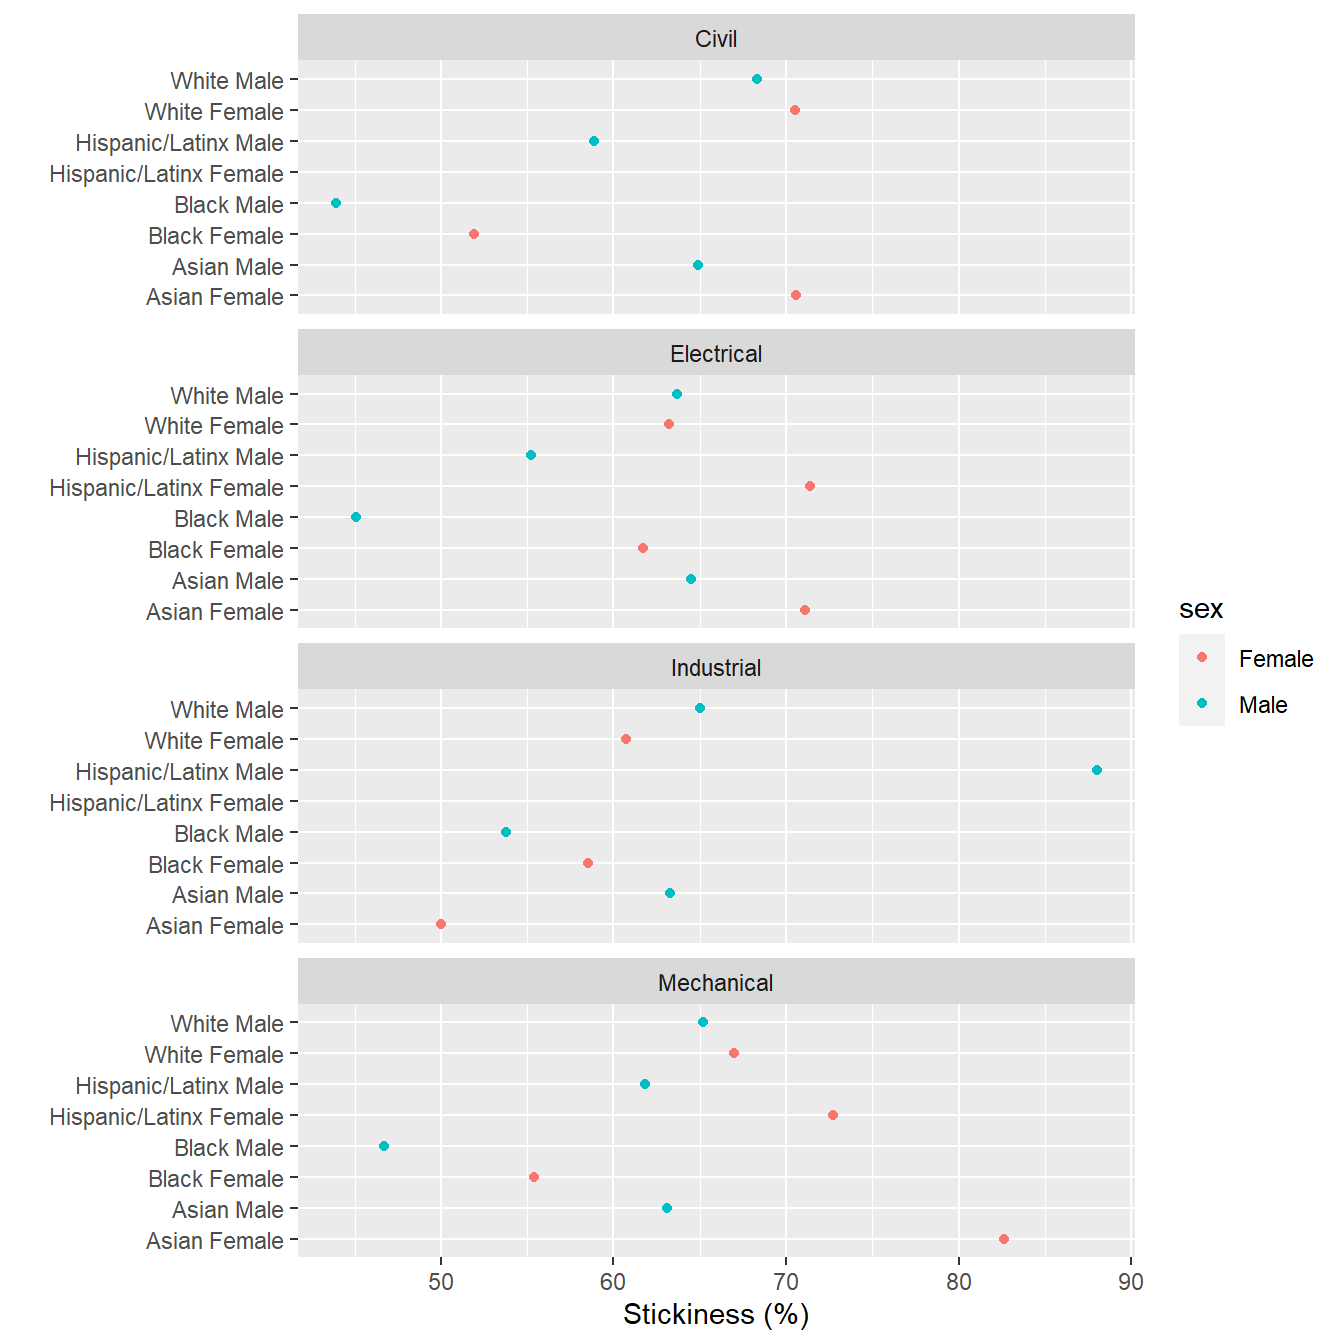
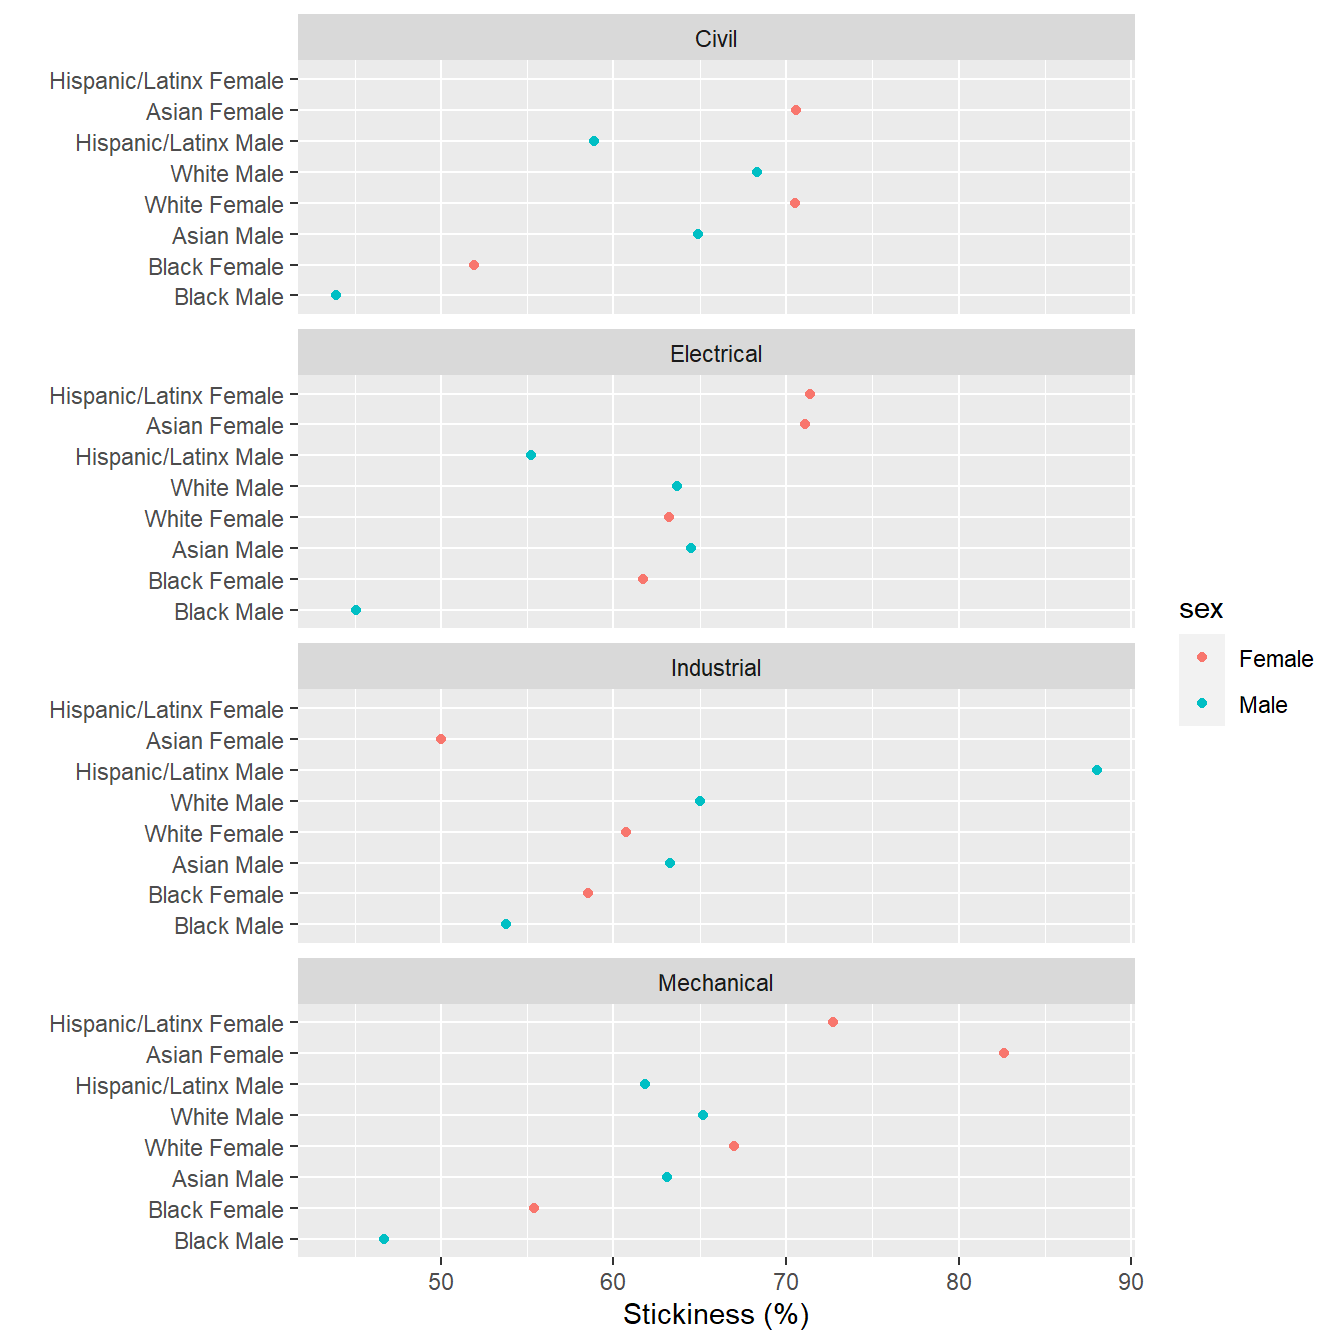
docs: stickiness.rds

diff --git a/docs/graph-basics.html b/docs/graph-basics.html
@@ -256,7 +256,6 @@ div.csl-indent {
 <ul>
 <li class="chapter" data-level="6.9.1" data-path="graph-basics.html"><a href="graph-basics.html#exercise-6"><i class="fa fa-check"></i><b>6.9.1</b> Exercise</a></li>
 </ul></li>
-<li class="chapter" data-level="6.10" data-path="graph-basics.html"><a href="graph-basics.html#downloading-files-manually"><i class="fa fa-check"></i><b>6.10</b> Downloading files manually</a></li>
 </ul></li>
 <li class="chapter" data-level="7" data-path="data-basics.html"><a href="data-basics.html"><i class="fa fa-check"></i><b>7</b> Data basics</a>
 <ul>
@@ -327,7 +326,9 @@ div.csl-indent {
 <div class="sourceCode" id="cb2"><pre class="sourceCode r"><code class="sourceCode r"><span id="cb2-1"><a href="graph-basics.html#cb2-1" aria-hidden="true" tabindex="-1"></a>        data\</span>
 <span id="cb2-2"><a href="graph-basics.html#cb2-2" aria-hidden="true" tabindex="-1"></a>            hours_per_term.rds</span>
 <span id="cb2-3"><a href="graph-basics.html#cb2-3" aria-hidden="true" tabindex="-1"></a>            sat.rds</span>
-<span id="cb2-4"><a href="graph-basics.html#cb2-4" aria-hidden="true" tabindex="-1"></a>            student_demogr.rds</span></code></pre></div>
+<span id="cb2-4"><a href="graph-basics.html#cb2-4" aria-hidden="true" tabindex="-1"></a>            stickiness.rds</span>
+<span id="cb2-5"><a href="graph-basics.html#cb2-5" aria-hidden="true" tabindex="-1"></a>            student_demogr.rds</span></code></pre></div>
+<p>These data files are used in the exercises. We use RDS format because it preserves the order (if any) of factors.</p>
 </div>
 <div id="start-a-new-script" class="section level3" number="6.1.2">
 <h3><span class="header-section-number">6.1.2</span> Start a new script</h3>
@@ -583,9 +584,9 @@ div.csl-indent {
 <div id="exercise-4" class="section level3" number="6.7.1">
 <h3><span class="header-section-number">6.7.1</span> Exercise</h3>
 <p>The prepared data you downloaded earlier includes the file <code>hours_per_term.rds</code>. Again, we read the data using <code>readRDS()</code>.</p>
-<div class="sourceCode" id="cb27"><pre class="sourceCode r"><code class="sourceCode r"><span id="cb27-1"><a href="graph-basics.html#cb27-1" aria-hidden="true" tabindex="-1"></a>hours_per_term<span class="ot">&lt;-</span> <span class="fu">readRDS</span>(<span class="st">&quot;data/hours_per_term.rds&quot;</span>)</span></code></pre></div>
+<div class="sourceCode" id="cb27"><pre class="sourceCode r"><code class="sourceCode r"><span id="cb27-1"><a href="graph-basics.html#cb27-1" aria-hidden="true" tabindex="-1"></a>hours_per_term <span class="ot">&lt;-</span> <span class="fu">readRDS</span>(<span class="st">&quot;data/hours_per_term.rds&quot;</span>)</span></code></pre></div>
 <ul>
-<li>Use <code>hours_per_termd</code> data to create a boxplot of hours per term as a function of level.</li>
+<li>Use <code>hours_per_term</code> data to create a boxplot of hours per term as a function of level.</li>
 <li>Add a third column name to <code>aes()</code> to add <code>sex</code> by color to the graph.</li>
 <li>Add the <code>coord_flip()</code> layer to your graph to swap the position of the x, y coordinates to obtain a horizontal boxplot.</li>
 <li>Check your work by comparing your result to the graph below.</li>
@@ -621,26 +622,15 @@ div.csl-indent {
 <span id="cb30-6"><a href="graph-basics.html#cb30-6" aria-hidden="true" tabindex="-1"></a>       <span class="at">y =</span> <span class="st">&quot;Life expectancy (years)&quot;</span>) </span></code></pre></div>
 <div id="exercise-5" class="section level3" number="6.8.1">
 <h3><span class="header-section-number">6.8.1</span> Exercise</h3>
-<p>Use the following code chunk to construct a data frame of program stickiness by program, race/ethnicity, and sex.</p>
-<div class="sourceCode" id="cb31"><pre class="sourceCode r"><code class="sourceCode r"><span id="cb31-1"><a href="graph-basics.html#cb31-1" aria-hidden="true" tabindex="-1"></a><span class="co"># Access a data set included with midfieldr</span></span>
-<span id="cb31-2"><a href="graph-basics.html#cb31-2" aria-hidden="true" tabindex="-1"></a>stickiness <span class="ot">&lt;-</span> <span class="fu">copy</span>(study_stickiness)</span>
-<span id="cb31-3"><a href="graph-basics.html#cb31-3" aria-hidden="true" tabindex="-1"></a></span>
-<span id="cb31-4"><a href="graph-basics.html#cb31-4" aria-hidden="true" tabindex="-1"></a><span class="co"># Create a combined categorical column </span></span>
-<span id="cb31-5"><a href="graph-basics.html#cb31-5" aria-hidden="true" tabindex="-1"></a>stickiness[, race_sex <span class="sc">:</span><span class="er">=</span> <span class="fu">paste</span>(race, sex)]</span>
-<span id="cb31-6"><a href="graph-basics.html#cb31-6" aria-hidden="true" tabindex="-1"></a></span>
-<span id="cb31-7"><a href="graph-basics.html#cb31-7" aria-hidden="true" tabindex="-1"></a><span class="co"># Factor class enables reordering </span></span>
-<span id="cb31-8"><a href="graph-basics.html#cb31-8" aria-hidden="true" tabindex="-1"></a>stickiness[, race_sex <span class="sc">:</span><span class="er">=</span> <span class="fu">factor</span>(race_sex)]</span>
-<span id="cb31-9"><a href="graph-basics.html#cb31-9" aria-hidden="true" tabindex="-1"></a>stickiness[, program <span class="sc">:</span><span class="er">=</span> <span class="fu">factor</span>(program)]</span>
-<span id="cb31-10"><a href="graph-basics.html#cb31-10" aria-hidden="true" tabindex="-1"></a></span>
-<span id="cb31-11"><a href="graph-basics.html#cb31-11" aria-hidden="true" tabindex="-1"></a><span class="co"># Omit ambiguous race/ethnicities and small populations</span></span>
-<span id="cb31-12"><a href="graph-basics.html#cb31-12" aria-hidden="true" tabindex="-1"></a>stickiness <span class="ot">&lt;-</span> stickiness[<span class="sc">!</span>race_sex <span class="sc">%ilike%</span> <span class="fu">c</span>(<span class="st">&quot;Native|International|Other&quot;</span>)]</span></code></pre></div>
+<p>The prepared data you downloaded earlier includes the file <code>stickiness.rds</code>. Again, we read the data using <code>readRDS()</code>.</p>
+<div class="sourceCode" id="cb31"><pre class="sourceCode r"><code class="sourceCode r"><span id="cb31-1"><a href="graph-basics.html#cb31-1" aria-hidden="true" tabindex="-1"></a>stickiness <span class="ot">&lt;-</span> <span class="fu">readRDS</span>(<span class="st">&quot;data/stickiness.rds&quot;</span>)</span></code></pre></div>
 <ul>
-<li>Use the resulting <code>dtf</code> data frame plot stickiness (x-axis) as a function of race/ethnicity/sex (y-axis) and faceted by program.<br />
+<li>Use the <code>stickiness</code> data frame and plot stickiness (x-axis) as a function of race/ethnicity/sex (y-axis) and faceted by program.<br />
 </li>
 <li>When that graph seems OK, add a third column name to <code>aes()</code> to add <code>sex</code> by color to the graph.</li>
 <li>Check your work by comparing your result to the graph below.</li>
 </ul>
-<p><img src="2021-ASEE-Workshop_files/figure-html/unnamed-chunk-35-1.png" width="80%" /></p>
+<p><img src="2021-ASEE-Workshop_files/figure-html/unnamed-chunk-36-1.png" width="80%" /></p>
 <p>Help pages for more information:</p>
 <ul>
 <li><a href="https://ggplot2.tidyverse.org/reference/facet_wrap.html" target="_blank">facet_wrap()</a></li>
@@ -675,7 +665,7 @@ div.csl-indent {
 <span id="cb34-4"><a href="graph-basics.html#cb34-4" aria-hidden="true" tabindex="-1"></a>  <span class="fu">scale_x_continuous</span>(<span class="at">trans =</span> <span class="st">&quot;log10&quot;</span>) <span class="sc">+</span></span>
 <span id="cb34-5"><a href="graph-basics.html#cb34-5" aria-hidden="true" tabindex="-1"></a>  <span class="fu">labs</span>(<span class="at">x =</span> <span class="st">&quot;GDP per capita, USD (log10 scale)&quot;</span>, </span>
 <span id="cb34-6"><a href="graph-basics.html#cb34-6" aria-hidden="true" tabindex="-1"></a>       <span class="at">y =</span> <span class="st">&quot;Life expectancy (years)&quot;</span>) </span></code></pre></div>
-<p><img src="2021-ASEE-Workshop_files/figure-html/unnamed-chunk-38-1.png" width="80%" /></p>
+<p><img src="2021-ASEE-Workshop_files/figure-html/unnamed-chunk-39-1.png" width="80%" /></p>
 <div id="exercise-6" class="section level3" number="6.9.1">
 <h3><span class="header-section-number">6.9.1</span> Exercise</h3>
 <ul>
@@ -685,71 +675,15 @@ div.csl-indent {
 <li>Order race/ethnicity/sex by the stickiness variable.</li>
 <li>Check your work by comparing your result to the graph below.</li>
 </ul>
-<p><img src="2021-ASEE-Workshop_files/figure-html/unnamed-chunk-39-1.png" width="80%" /></p>
+<p><img src="2021-ASEE-Workshop_files/figure-html/unnamed-chunk-40-1.png" width="80%" /></p>
 <p>Help pages for more information:</p>
 <ul>
 <li><a href="https://www.rdocumentation.org/packages/stats/versions/3.6.2/topics/reorder.default" target="_blank">reorder()</a></li>
 </ul>
-</div>
-</div>
-<div id="downloading-files-manually" class="section level2" number="6.10">
-<h2><span class="header-section-number">6.10</span> Downloading files manually</h2>
-<p>If a download using <code>fread()</code> fails,</p>
-<ul>
-<li>Navigate to the <a href="https://github.com/MIDFIELDR/2021-asee-workshop/tree/main/data">Workshop source files</a> on GitHub</li>
-<li>Click on the file you want, taking you to its page.</li>
-<li>Right-click on <em>Raw</em></li>
-<li>Download by selecting <em>Save link as…</em> save to your <code>workshop/data/</code> directory.</li>
-</ul>
-<p>Use <code>fread()</code> as before to read the file. For example,</p>
-<div class="sourceCode" id="cb35"><pre class="sourceCode r"><code class="sourceCode r"><span id="cb35-1"><a href="graph-basics.html#cb35-1" aria-hidden="true" tabindex="-1"></a>data_location  <span class="ot">&lt;-</span> <span class="st">&quot;data/student_demogr.txt&quot;</span></span>
-<span id="cb35-2"><a href="graph-basics.html#cb35-2" aria-hidden="true" tabindex="-1"></a>student_demogr <span class="ot">&lt;-</span> <span class="fu">fread</span>(data_location, <span class="at">colClasses =</span> <span class="fu">c</span>(<span class="at">race_sex =</span> <span class="st">&quot;factor&quot;</span>))</span></code></pre></div>
-<div class="sourceCode" id="cb36"><pre class="sourceCode r"><code class="sourceCode r"><span id="cb36-1"><a href="graph-basics.html#cb36-1" aria-hidden="true" tabindex="-1"></a><span class="fu">dir</span>(<span class="st">&#39;data&#39;</span>)</span>
-<span id="cb36-2"><a href="graph-basics.html#cb36-2" aria-hidden="true" tabindex="-1"></a><span class="co"># [1] &quot;case2_course.rds&quot;     &quot;case2_degree.rds&quot;</span></span>
-<span id="cb36-3"><a href="graph-basics.html#cb36-3" aria-hidden="true" tabindex="-1"></a><span class="co"># [3] &quot;case2_student.rds&quot;    &quot;case2_term.rds&quot;</span></span>
-<span id="cb36-4"><a href="graph-basics.html#cb36-4" aria-hidden="true" tabindex="-1"></a><span class="co"># [5] &quot;example2.xlsx&quot;        &quot;info_pkg.rds&quot;</span></span>
-<span id="cb36-5"><a href="graph-basics.html#cb36-5" aria-hidden="true" tabindex="-1"></a><span class="co"># [7] &quot;sat.csv&quot;              &quot;student_demogr.csv&quot;</span></span>
-<span id="cb36-6"><a href="graph-basics.html#cb36-6" aria-hidden="true" tabindex="-1"></a><span class="co"># [9] &quot;student_demogr.txt&quot;   &quot;student_demogr_2.txt&quot;</span></span>
-<span id="cb36-7"><a href="graph-basics.html#cb36-7" aria-hidden="true" tabindex="-1"></a><span class="co"># </span></span>
-<span id="cb36-8"><a href="graph-basics.html#cb36-8" aria-hidden="true" tabindex="-1"></a><span class="co"># data_location  &lt;- &quot;data/student_demogr.txt&quot;</span></span>
-<span id="cb36-9"><a href="graph-basics.html#cb36-9" aria-hidden="true" tabindex="-1"></a><span class="co"># student_demogr &lt;- fread(data_location, colClasses = c(race_sex = &quot;factor&quot;))</span></span>
-<span id="cb36-10"><a href="graph-basics.html#cb36-10" aria-hidden="true" tabindex="-1"></a><span class="co"># student_demogr[, race_sex := reorder(race_sex, N) ]</span></span>
-<span id="cb36-11"><a href="graph-basics.html#cb36-11" aria-hidden="true" tabindex="-1"></a><span class="co"># ggplot(student_demogr, aes(x = N, y = race_sex)) +</span></span>
-<span id="cb36-12"><a href="graph-basics.html#cb36-12" aria-hidden="true" tabindex="-1"></a><span class="co">#   geom_point() +</span></span>
-<span id="cb36-13"><a href="graph-basics.html#cb36-13" aria-hidden="true" tabindex="-1"></a><span class="co">#   scale_x_continuous(trans = &quot;log2&quot;) +</span></span>
-<span id="cb36-14"><a href="graph-basics.html#cb36-14" aria-hidden="true" tabindex="-1"></a><span class="co">#   labs(x = &quot;Number of students admitted (log-2 scale)&quot;, y = &quot;&quot;)</span></span>
-<span id="cb36-15"><a href="graph-basics.html#cb36-15" aria-hidden="true" tabindex="-1"></a></span>
-<span id="cb36-16"><a href="graph-basics.html#cb36-16" aria-hidden="true" tabindex="-1"></a><span class="fu">saveRDS</span>(student_demogr, <span class="st">&quot;data/student_demogr.rds&quot;</span>)</span>
-<span id="cb36-17"><a href="graph-basics.html#cb36-17" aria-hidden="true" tabindex="-1"></a>student_demogr <span class="ot">&lt;-</span> <span class="fu">readRDS</span>(<span class="st">&quot;data/workshop_data/student_demogr.rds&quot;</span>)</span>
-<span id="cb36-18"><a href="graph-basics.html#cb36-18" aria-hidden="true" tabindex="-1"></a></span>
-<span id="cb36-19"><a href="graph-basics.html#cb36-19" aria-hidden="true" tabindex="-1"></a></span>
-<span id="cb36-20"><a href="graph-basics.html#cb36-20" aria-hidden="true" tabindex="-1"></a><span class="fu">zip</span>(</span>
-<span id="cb36-21"><a href="graph-basics.html#cb36-21" aria-hidden="true" tabindex="-1"></a>  <span class="at">zipfile =</span> zipfile,</span>
-<span id="cb36-22"><a href="graph-basics.html#cb36-22" aria-hidden="true" tabindex="-1"></a>  <span class="at">files =</span> <span class="fu">c</span>(<span class="st">&quot;data/student_demogr.rds&quot;</span>),</span>
-<span id="cb36-23"><a href="graph-basics.html#cb36-23" aria-hidden="true" tabindex="-1"></a>  <span class="at">include_directories =</span> <span class="cn">FALSE</span>,</span>
-<span id="cb36-24"><a href="graph-basics.html#cb36-24" aria-hidden="true" tabindex="-1"></a>  <span class="at">root =</span> <span class="st">&quot;.&quot;</span>,</span>
-<span id="cb36-25"><a href="graph-basics.html#cb36-25" aria-hidden="true" tabindex="-1"></a>  <span class="at">mode =</span> <span class="st">&quot;cherry-pick&quot;</span></span>
-<span id="cb36-26"><a href="graph-basics.html#cb36-26" aria-hidden="true" tabindex="-1"></a>)</span>
-<span id="cb36-27"><a href="graph-basics.html#cb36-27" aria-hidden="true" tabindex="-1"></a><span class="fu">zip_append</span>(</span>
-<span id="cb36-28"><a href="graph-basics.html#cb36-28" aria-hidden="true" tabindex="-1"></a>  <span class="at">zipfile =</span> zipfile,</span>
-<span id="cb36-29"><a href="graph-basics.html#cb36-29" aria-hidden="true" tabindex="-1"></a>  <span class="at">files =</span> <span class="fu">c</span>(<span class="st">&quot;data/student_demogr.rds&quot;</span>),</span>
-<span id="cb36-30"><a href="graph-basics.html#cb36-30" aria-hidden="true" tabindex="-1"></a>  <span class="at">include_directories =</span> <span class="cn">FALSE</span>,</span>
-<span id="cb36-31"><a href="graph-basics.html#cb36-31" aria-hidden="true" tabindex="-1"></a>  <span class="at">root =</span> <span class="st">&quot;.&quot;</span>,</span>
-<span id="cb36-32"><a href="graph-basics.html#cb36-32" aria-hidden="true" tabindex="-1"></a>  <span class="at">mode =</span> <span class="st">&quot;cherry-pick&quot;</span></span>
-<span id="cb36-33"><a href="graph-basics.html#cb36-33" aria-hidden="true" tabindex="-1"></a>)</span>
-<span id="cb36-34"><a href="graph-basics.html#cb36-34" aria-hidden="true" tabindex="-1"></a></span>
-<span id="cb36-35"><a href="graph-basics.html#cb36-35" aria-hidden="true" tabindex="-1"></a>student_demogr <span class="ot">&lt;-</span> <span class="fu">readRDS</span>(<span class="st">&quot;data/workshop_data/student_demogr.rds&quot;</span>)</span>
-<span id="cb36-36"><a href="graph-basics.html#cb36-36" aria-hidden="true" tabindex="-1"></a><span class="fu">ggplot</span>(student_demogr, <span class="fu">aes</span>(<span class="at">x =</span> N, <span class="at">y =</span> race_sex)) <span class="sc">+</span></span>
-<span id="cb36-37"><a href="graph-basics.html#cb36-37" aria-hidden="true" tabindex="-1"></a>  <span class="fu">geom_point</span>() <span class="sc">+</span></span>
-<span id="cb36-38"><a href="graph-basics.html#cb36-38" aria-hidden="true" tabindex="-1"></a>  <span class="fu">scale_x_continuous</span>(<span class="at">trans =</span> <span class="st">&quot;log2&quot;</span>) <span class="sc">+</span></span>
-<span id="cb36-39"><a href="graph-basics.html#cb36-39" aria-hidden="true" tabindex="-1"></a>  <span class="fu">labs</span>(<span class="at">x =</span> <span class="st">&quot;Number of students admitted (log-2 scale)&quot;</span>, <span class="at">y =</span> <span class="st">&quot;&quot;</span>)</span>
-<span id="cb36-40"><a href="graph-basics.html#cb36-40" aria-hidden="true" tabindex="-1"></a></span>
-<span id="cb36-41"><a href="graph-basics.html#cb36-41" aria-hidden="true" tabindex="-1"></a>zip_url <span class="ot">&lt;-</span> <span class="fu">paste0</span>(<span class="st">&quot;https://github.com/MIDFIELDR/2021-asee-workshop/&quot;</span>,</span>
-<span id="cb36-42"><a href="graph-basics.html#cb36-42" aria-hidden="true" tabindex="-1"></a>                  <span class="st">&quot;raw/main/data/workshop_data.zip&quot;</span>)</span>
-<span id="cb36-43"><a href="graph-basics.html#cb36-43" aria-hidden="true" tabindex="-1"></a><span class="fu">download.file</span>(zip_url, <span class="at">destfile =</span> <span class="st">&quot;data/download_zip.zip&quot;</span>)</span></code></pre></div>
 <p><br>
 <a href="graph-basics.html#graph-basics">▲ top of page</a></p>
 
+</div>
 </div>
 </div>
             </section>
